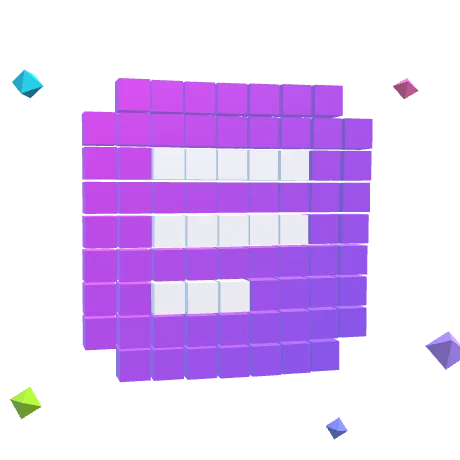
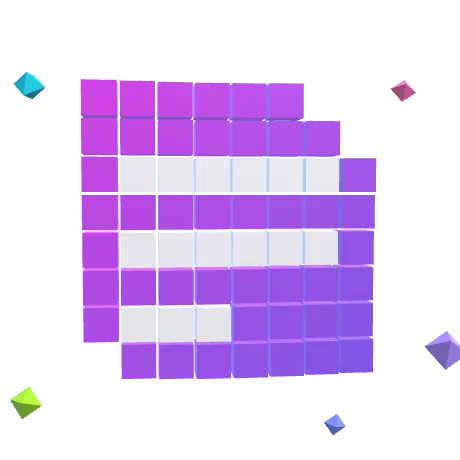
Use the hop-assets v8 bento and 3D engine

diff --git a/web/static/hop-home/hop-bento.css b/web/static/hop-home/hop-bento.css
@@ -1,35 +1,60 @@
 /*
- * HOP bento: one grid of boxes for every HOP page (hop-assets v7, immutable once deployed).
+ * HOP bento: one grid of boxes for every HOP page (hop-assets v8, immutable once deployed).
  *
- *   <link rel="stylesheet" href="https://hel.ink/hop-assets/v7/hop-bento.css">
- *   <script src="https://hel.ink/hop-assets/v7/hop-motion.js" defer></script>   (reveal, spotlight, scenes)
+ *   <link rel="stylesheet" href="https://hel.ink/hop-assets/v8/hop-bento.css">
+ *   <script src="https://hel.ink/hop-assets/v8/hop-motion.js" defer></script>   (reveal, spotlight, scenes)
  *
- *   <div class="hop-bento">
+ *   <div class="hop-bento">                 content boxes (text, lists)
+ *   <div class="hop-bento" data-tiles>      small tiles (the five family tiles with 3D art, stats)
  *     <article data-spot>...</article>
  *     <article data-spot data-scene>... a small CSS/SVG scene ...</article>
  *   </div>
  *
- * The grid has 6 columns. A box spans 2 columns unless the pattern for the box count says otherwise, so every
- * count from 2 to 9 fills whole rows: one tidy rectangle, never a box left alone on the last row.
- * Spans by box count (rows separated by "/"), desktop (above 1024 px):
- *   2 boxes: 4+2
- *   3 boxes: 3+3 / 6
- *   4 boxes: 4+2 / 2+4
- *   5 boxes: 3+3 / 2+2+2
- *   6 boxes: 4+2 / 2+2+2 / 6
- *   7 boxes: 3+3 / 2+2+2 / 3+3
- *   8 boxes: 3+3 / 2+2+2 / 2+2+2
- *   9 boxes: 3+3 / 2+2+2 / 2+2+2 / 6
- * One box on its own spans the full row. More than 9 boxes: split them into several grids (a grid of 10 or
- * more falls back to three per row and may leave the last row short).
- * Override: data-span="3|4|6" on a box. When any box has data-span the count patterns switch off; the other
- * boxes span 2 and grid-auto-flow:dense fills the gaps, so pick spans whose rows add up to 6.
- * Tablet (up to 1024 px): 2 columns, and when the count is odd the last box spans both.
- * Phone (up to 640 px): 1 column.
- * Rows share one height (grid stretch). Boxes keep their own display, so a box can be a flex row or a grid.
- * data-bare on the grid: layout only (no panel, border, padding or clipping), for boxes that bring their own card style.
+ * v8: more columns, smaller boxes. The grid has 60 columns on desktop (12 would not divide into 5), so five
+ * tiles share one row. No box is alone on a row and none is wider than half the row (unless it is the only
+ * box, or data-span asks for it). Spans per box count, rows separated by "/"; desktop numbers are sixtieths
+ * of the row, tablet numbers sixths.
  *
- * Tokens (all overridable on .hop-bento or any ancestor; light and dark follow .dark / [data-theme=dark]):
+ * Desktop, 1100 px and up, content boxes:
+ *   2 boxes: 30+30
+ *   3 boxes: 20+20+20
+ *   4 boxes: 30+30 / 30+30
+ *   5 boxes: 20+20+20 / 30+30
+ *   6 boxes: 20+20+20 / 20+20+20
+ *   7 boxes: 15+15+15+15 / 20+20+20
+ *   8 boxes: 18+14+14+14 / 14+14+14+18
+ *   9 boxes: 20+20+20 / 20+20+20 / 20+20+20
+ * Desktop, 1100 px and up, data-tiles (small boxes, few rows):
+ *   2 boxes: 30+30
+ *   3 boxes: 20+20+20
+ *   4 boxes: 15+15+15+15
+ *   5 boxes: 12+12+12+12+12
+ *   6 boxes: 10+10+10+10+10+10
+ *   7 boxes: 15+15+15+15 / 20+20+20
+ *   8 boxes: 15+15+15+15 / 15+15+15+15
+ *   9 boxes: 12+12+12+12+12 / 15+15+15+15
+ * Tablet, 900 to 1099 px (data-tiles from 641 px): 6 columns, both kinds:
+ *   2 boxes: 3+3
+ *   3 boxes: 2+2+2
+ *   4 boxes: 3+3 / 3+3
+ *   5 boxes: 2+2+2 / 3+3
+ *   6 boxes: 2+2+2 / 2+2+2
+ *   7 boxes: 2+2+2 / 3+3 / 3+3
+ *   8 boxes: 3+3 / 2+2+2 / 2+2+2
+ *   9 boxes: 2+2+2 / 2+2+2 / 2+2+2
+ * 641 to 899 px content boxes: 2 columns, and when the count is odd the last box spans both.
+ * Phone, up to 640 px: content boxes in 1 column; data-tiles in 2 columns, an odd last tile spans both.
+ * More than 9 boxes: split them into several grids (a longer grid falls back to 3 per row).
+ * One box alone spans the full row. data-span="2|3|4|6" (sixths) on a box is a deliberate size: the count
+ * patterns switch off for that grid, the other boxes span a third and grid-auto-flow:dense fills the gaps.
+ *
+ * Media inside a box is capped so a box never turns into a poster: [data-media] (3D tile art, an image) is
+ * 160 to 200 px tall on desktop and 120 to 140 px on a phone; [data-scene] never exceeds 140 px.
+ *
+ * Rows share one height (grid stretch). Boxes keep their own display, so a box can be a flex row or a grid.
+ * data-bare on the grid: layout only (no panel, border, padding or clipping), for boxes with their own card style.
+ *
+ * Tokens (overridable on .hop-bento or any ancestor; light and dark follow .dark / [data-theme=dark]):
  *   --hb-accent  spotlight and scene colour, default HOP indigo (apps pass their own, e.g. --hop-accent)
  *   --hb-panel, --hb-line, --hb-text, --hb-muted, --hb-radius, --hb-gap, --hb-shadow
  *
@@ -68,36 +93,96 @@
 /* Layout only: boxes that bring their own card style. */
 .hop-bento[data-bare] > * { padding: 0; overflow: visible; background: none; border: 0; border-radius: 0; box-shadow: none; }
 
-/* A box on its own, and every box when the grid has more than nine. */
+/* A box on its own. */
 .hop-bento:has(> :first-child:last-child) > * { grid-column: 1 / -1; }
 
-/* Spans by count, desktop only; a box has span 2 unless listed. */
-@media (min-width: 1025px) {
-    .hop-bento > [data-span="3"] { grid-column: span 3; }
-    .hop-bento > [data-span="4"] { grid-column: span 4; }
-    .hop-bento > [data-span="6"] { grid-column: span 6; }
-    .hop-bento:not(:has(> [data-span])):has(> :nth-child(2):last-child) > :nth-child(1) { grid-column: span 4; }
-    .hop-bento:not(:has(> [data-span])):has(> :nth-child(3):last-child) > :nth-child(-n+2) { grid-column: span 3; }
-    .hop-bento:not(:has(> [data-span])):has(> :nth-child(3):last-child) > :nth-child(3) { grid-column: span 6; }
-    .hop-bento:not(:has(> [data-span])):has(> :nth-child(4):last-child) > :is(:nth-child(1), :nth-child(4)) { grid-column: span 4; }
-    .hop-bento:not(:has(> [data-span])):has(> :nth-child(5):last-child) > :nth-child(-n+2) { grid-column: span 3; }
-    .hop-bento:not(:has(> [data-span])):has(> :nth-child(6):last-child) > :nth-child(1) { grid-column: span 4; }
-    .hop-bento:not(:has(> [data-span])):has(> :nth-child(6):last-child) > :nth-child(6) { grid-column: span 6; }
-    .hop-bento:not(:has(> [data-span])):has(> :nth-child(7):last-child) > :is(:nth-child(-n+2), :nth-child(n+6)) { grid-column: span 3; }
-    .hop-bento:not(:has(> [data-span])):has(> :nth-child(8):last-child) > :nth-child(-n+2) { grid-column: span 3; }
-    .hop-bento:not(:has(> [data-span])):has(> :nth-child(9):last-child) > :nth-child(-n+2) { grid-column: span 3; }
-    .hop-bento:not(:has(> [data-span])):has(> :nth-child(9):last-child) > :nth-child(9) { grid-column: span 6; }
+/* A deliberate size (sixths), whatever the width: the count patterns step aside for this grid. */
+.hop-bento > [data-span="2"] { grid-column: span 2; }
+.hop-bento > [data-span="3"] { grid-column: span 3; }
+.hop-bento > [data-span="4"] { grid-column: span 4; }
+.hop-bento > [data-span="6"] { grid-column: 1 / -1; }
+
+/* Tablet: 6 columns, from 900 px for content boxes and from 641 px for tiles. */
+@media (min-width: 900px) and (max-width: 1099px) {
+    .hop-bento:not([data-tiles]):not(:has(> [data-span])):has(> :nth-child(2):last-child) > :is(:nth-child(1), :nth-child(2)) { grid-column: span 3; }
+    .hop-bento:not([data-tiles]):not(:has(> [data-span])):has(> :nth-child(3):last-child) > :is(:nth-child(1), :nth-child(2), :nth-child(3)) { grid-column: span 2; }
+    .hop-bento:not([data-tiles]):not(:has(> [data-span])):has(> :nth-child(4):last-child) > :is(:nth-child(1), :nth-child(2), :nth-child(3), :nth-child(4)) { grid-column: span 3; }
+    .hop-bento:not([data-tiles]):not(:has(> [data-span])):has(> :nth-child(5):last-child) > :is(:nth-child(1), :nth-child(2), :nth-child(3)) { grid-column: span 2; }
+    .hop-bento:not([data-tiles]):not(:has(> [data-span])):has(> :nth-child(5):last-child) > :is(:nth-child(4), :nth-child(5)) { grid-column: span 3; }
+    .hop-bento:not([data-tiles]):not(:has(> [data-span])):has(> :nth-child(6):last-child) > :is(:nth-child(1), :nth-child(2), :nth-child(3), :nth-child(4), :nth-child(5), :nth-child(6)) { grid-column: span 2; }
+    .hop-bento:not([data-tiles]):not(:has(> [data-span])):has(> :nth-child(7):last-child) > :is(:nth-child(1), :nth-child(2), :nth-child(3)) { grid-column: span 2; }
+    .hop-bento:not([data-tiles]):not(:has(> [data-span])):has(> :nth-child(7):last-child) > :is(:nth-child(4), :nth-child(5), :nth-child(6), :nth-child(7)) { grid-column: span 3; }
+    .hop-bento:not([data-tiles]):not(:has(> [data-span])):has(> :nth-child(8):last-child) > :is(:nth-child(3), :nth-child(4), :nth-child(5), :nth-child(6), :nth-child(7), :nth-child(8)) { grid-column: span 2; }
+    .hop-bento:not([data-tiles]):not(:has(> [data-span])):has(> :nth-child(8):last-child) > :is(:nth-child(1), :nth-child(2)) { grid-column: span 3; }
+    .hop-bento:not([data-tiles]):not(:has(> [data-span])):has(> :nth-child(9):last-child) > :is(:nth-child(1), :nth-child(2), :nth-child(3), :nth-child(4), :nth-child(5), :nth-child(6), :nth-child(7), :nth-child(8), :nth-child(9)) { grid-column: span 2; }
+}
+@media (min-width: 641px) and (max-width: 1099px) {
+    .hop-bento[data-tiles] { grid-template-columns: repeat(6, minmax(0, 1fr)); }
+    .hop-bento[data-tiles] > * { grid-column: span 2; }
+    .hop-bento[data-tiles]:not(:has(> [data-span])):has(> :nth-child(2):last-child) > :is(:nth-child(1), :nth-child(2)) { grid-column: span 3; }
+    .hop-bento[data-tiles]:not(:has(> [data-span])):has(> :nth-child(3):last-child) > :is(:nth-child(1), :nth-child(2), :nth-child(3)) { grid-column: span 2; }
+    .hop-bento[data-tiles]:not(:has(> [data-span])):has(> :nth-child(4):last-child) > :is(:nth-child(1), :nth-child(2), :nth-child(3), :nth-child(4)) { grid-column: span 3; }
+    .hop-bento[data-tiles]:not(:has(> [data-span])):has(> :nth-child(5):last-child) > :is(:nth-child(1), :nth-child(2), :nth-child(3)) { grid-column: span 2; }
+    .hop-bento[data-tiles]:not(:has(> [data-span])):has(> :nth-child(5):last-child) > :is(:nth-child(4), :nth-child(5)) { grid-column: span 3; }
+    .hop-bento[data-tiles]:not(:has(> [data-span])):has(> :nth-child(6):last-child) > :is(:nth-child(1), :nth-child(2), :nth-child(3), :nth-child(4), :nth-child(5), :nth-child(6)) { grid-column: span 2; }
+    .hop-bento[data-tiles]:not(:has(> [data-span])):has(> :nth-child(7):last-child) > :is(:nth-child(1), :nth-child(2), :nth-child(3)) { grid-column: span 2; }
+    .hop-bento[data-tiles]:not(:has(> [data-span])):has(> :nth-child(7):last-child) > :is(:nth-child(4), :nth-child(5), :nth-child(6), :nth-child(7)) { grid-column: span 3; }
+    .hop-bento[data-tiles]:not(:has(> [data-span])):has(> :nth-child(8):last-child) > :is(:nth-child(3), :nth-child(4), :nth-child(5), :nth-child(6), :nth-child(7), :nth-child(8)) { grid-column: span 2; }
+    .hop-bento[data-tiles]:not(:has(> [data-span])):has(> :nth-child(8):last-child) > :is(:nth-child(1), :nth-child(2)) { grid-column: span 3; }
+    .hop-bento[data-tiles]:not(:has(> [data-span])):has(> :nth-child(9):last-child) > :is(:nth-child(1), :nth-child(2), :nth-child(3), :nth-child(4), :nth-child(5), :nth-child(6), :nth-child(7), :nth-child(8), :nth-child(9)) { grid-column: span 2; }
 }
 
-@media (max-width: 1024px) {
-    .hop-bento { grid-template-columns: repeat(2, minmax(0, 1fr)); }
-    .hop-bento > *, .hop-bento > [data-span] { grid-column: span 1; }
-    .hop-bento > :last-child:nth-child(odd) { grid-column: 1 / -1; }
+/* Desktop, 1100 px and up: 60 columns. */
+@media (min-width: 1100px) {
+    .hop-bento { grid-template-columns: repeat(60, minmax(0, 1fr)); }
+    .hop-bento > * { grid-column: span 20; }
+    .hop-bento > [data-span="2"] { grid-column: span 20; }
+    .hop-bento > [data-span="3"] { grid-column: span 30; }
+    .hop-bento > [data-span="4"] { grid-column: span 40; }
+    .hop-bento > [data-span="6"] { grid-column: 1 / -1; }
+    .hop-bento:not([data-tiles]):not(:has(> [data-span])):has(> :nth-child(2):last-child) > :is(:nth-child(1), :nth-child(2)) { grid-column: span 30; }
+    .hop-bento:not([data-tiles]):not(:has(> [data-span])):has(> :nth-child(3):last-child) > :is(:nth-child(1), :nth-child(2), :nth-child(3)) { grid-column: span 20; }
+    .hop-bento:not([data-tiles]):not(:has(> [data-span])):has(> :nth-child(4):last-child) > :is(:nth-child(1), :nth-child(2), :nth-child(3), :nth-child(4)) { grid-column: span 30; }
+    .hop-bento:not([data-tiles]):not(:has(> [data-span])):has(> :nth-child(5):last-child) > :is(:nth-child(1), :nth-child(2), :nth-child(3)) { grid-column: span 20; }
+    .hop-bento:not([data-tiles]):not(:has(> [data-span])):has(> :nth-child(5):last-child) > :is(:nth-child(4), :nth-child(5)) { grid-column: span 30; }
+    .hop-bento:not([data-tiles]):not(:has(> [data-span])):has(> :nth-child(6):last-child) > :is(:nth-child(1), :nth-child(2), :nth-child(3), :nth-child(4), :nth-child(5), :nth-child(6)) { grid-column: span 20; }
+    .hop-bento:not([data-tiles]):not(:has(> [data-span])):has(> :nth-child(7):last-child) > :is(:nth-child(1), :nth-child(2), :nth-child(3), :nth-child(4)) { grid-column: span 15; }
+    .hop-bento:not([data-tiles]):not(:has(> [data-span])):has(> :nth-child(7):last-child) > :is(:nth-child(5), :nth-child(6), :nth-child(7)) { grid-column: span 20; }
+    .hop-bento:not([data-tiles]):not(:has(> [data-span])):has(> :nth-child(8):last-child) > :is(:nth-child(2), :nth-child(3), :nth-child(4), :nth-child(5), :nth-child(6), :nth-child(7)) { grid-column: span 14; }
+    .hop-bento:not([data-tiles]):not(:has(> [data-span])):has(> :nth-child(8):last-child) > :is(:nth-child(1), :nth-child(8)) { grid-column: span 18; }
+    .hop-bento:not([data-tiles]):not(:has(> [data-span])):has(> :nth-child(9):last-child) > :is(:nth-child(1), :nth-child(2), :nth-child(3), :nth-child(4), :nth-child(5), :nth-child(6), :nth-child(7), :nth-child(8), :nth-child(9)) { grid-column: span 20; }
+    .hop-bento[data-tiles]:not(:has(> [data-span])):has(> :nth-child(2):last-child) > :is(:nth-child(1), :nth-child(2)) { grid-column: span 30; }
+    .hop-bento[data-tiles]:not(:has(> [data-span])):has(> :nth-child(3):last-child) > :is(:nth-child(1), :nth-child(2), :nth-child(3)) { grid-column: span 20; }
+    .hop-bento[data-tiles]:not(:has(> [data-span])):has(> :nth-child(4):last-child) > :is(:nth-child(1), :nth-child(2), :nth-child(3), :nth-child(4)) { grid-column: span 15; }
+    .hop-bento[data-tiles]:not(:has(> [data-span])):has(> :nth-child(5):last-child) > :is(:nth-child(1), :nth-child(2), :nth-child(3), :nth-child(4), :nth-child(5)) { grid-column: span 12; }
+    .hop-bento[data-tiles]:not(:has(> [data-span])):has(> :nth-child(6):last-child) > :is(:nth-child(1), :nth-child(2), :nth-child(3), :nth-child(4), :nth-child(5), :nth-child(6)) { grid-column: span 10; }
+    .hop-bento[data-tiles]:not(:has(> [data-span])):has(> :nth-child(7):last-child) > :is(:nth-child(1), :nth-child(2), :nth-child(3), :nth-child(4)) { grid-column: span 15; }
+    .hop-bento[data-tiles]:not(:has(> [data-span])):has(> :nth-child(7):last-child) > :is(:nth-child(5), :nth-child(6), :nth-child(7)) { grid-column: span 20; }
+    .hop-bento[data-tiles]:not(:has(> [data-span])):has(> :nth-child(8):last-child) > :is(:nth-child(1), :nth-child(2), :nth-child(3), :nth-child(4), :nth-child(5), :nth-child(6), :nth-child(7), :nth-child(8)) { grid-column: span 15; }
+    .hop-bento[data-tiles]:not(:has(> [data-span])):has(> :nth-child(9):last-child) > :is(:nth-child(1), :nth-child(2), :nth-child(3), :nth-child(4), :nth-child(5)) { grid-column: span 12; }
+    .hop-bento[data-tiles]:not(:has(> [data-span])):has(> :nth-child(9):last-child) > :is(:nth-child(6), :nth-child(7), :nth-child(8), :nth-child(9)) { grid-column: span 15; }
 }
+
+/* 641 to 899 px: 2 columns. */
+@media (max-width: 899px) {
+    .hop-bento:not([data-tiles]) { grid-template-columns: repeat(2, minmax(0, 1fr)); }
+    .hop-bento:not([data-tiles]) > *, .hop-bento:not([data-tiles]) > [data-span] { grid-column: span 1; }
+    .hop-bento:not([data-tiles]) > :last-child:nth-child(odd) { grid-column: 1 / -1; }
+}
+/* Phone: content in one column, tiles in two. */
 @media (max-width: 640px) {
-    .hop-bento { grid-template-columns: minmax(0, 1fr); }
-    .hop-bento > *, .hop-bento > [data-span], .hop-bento > :last-child:nth-child(odd) { grid-column: 1 / -1; }
+    .hop-bento:not([data-tiles]) { grid-template-columns: minmax(0, 1fr); }
+    .hop-bento:not([data-tiles]) > *, .hop-bento:not([data-tiles]) > [data-span], .hop-bento:not([data-tiles]) > :last-child:nth-child(odd) { grid-column: 1 / -1; }
+    .hop-bento[data-tiles] { grid-template-columns: repeat(2, minmax(0, 1fr)); gap: 10px; }
+    .hop-bento[data-tiles] > *, .hop-bento[data-tiles] > [data-span] { grid-column: span 1; }
+    .hop-bento[data-tiles] > :last-child:nth-child(odd) { grid-column: 1 / -1; }
+    .hop-bento > * { padding: 18px; }
 }
+
+/* Media caps. */
+.hop-bento [data-media] { display: block; width: 100%; height: clamp(160px, 14vw, 200px); object-fit: contain; }
+.hop-bento [data-scene] { max-height: 140px; }
+@media (max-width: 640px) { .hop-bento [data-media] { height: clamp(120px, 34vw, 140px); } }
 
 /* Pointer spotlight (hop-motion.js writes --mx / --my). Fine pointers only. */
 [data-spot] { position: relative; isolation: isolate; }

diff --git a/web/templates/home.html b/web/templates/home.html
@@ -1,4 +1,5 @@
 {{define "head"}}
+<link rel="stylesheet" href="/static/hop-home/hop-bento.css?v={{.Asset}}">
 <link rel="stylesheet" href="/static/hop-home/hop-home.css?v={{.Asset}}">
 <link rel="stylesheet" href="/static/hop-home/hop-scenes.css?v={{.Asset}}">
 <link rel="stylesheet" href="/static/css/home.css?v={{.Asset}}">
@@ -189,7 +190,7 @@
   </section>
 
   <!-- 10 family -->
-  <section class="px-sec" id="family" aria-labelledby="family-title"><h2 id="family-title" class="px-h2"><em>{{.L.T "home.family_title"}}</em></h2><p class="h-sub">{{.L.T "home.family_desc"}}</p><ul class="hop-fam" role="list">{{range hopFamily}}<li><div class="hop-fam-tile"><figure class="hop-fam-art"><picture><source srcset="/static/hop-home/home/{{.Slug}}-dark.webp" media="(prefers-color-scheme: dark)"><img src="/static/hop-home/home/{{.Slug}}-light.webp" alt="" width="150" height="150" loading="lazy"></picture><canvas data-hop-hero="{{.Slug}}" aria-hidden="true"></canvas></figure><a class="hop-fam-name" href="{{.URL}}"><b>{{if eq .Slug "hub"}}HOP ID{{else}}{{.Name}}{{end}}</b><span>{{hostOf .URL}}</span></a></div></li>{{end}}</ul></section>
+  <section class="px-sec" id="family" aria-labelledby="family-title"><h2 id="family-title" class="px-h2"><em>{{.L.T "home.family_title"}}</em></h2><p class="h-sub">{{.L.T "home.family_desc"}}</p><div class="hop-bento hop-fam" data-tiles>{{range hopFamily}}<article class="hop-fam-tile" data-spot><figure class="hop-fam-art" data-media><picture><source srcset="/static/hop-home/home/{{.Slug}}-dark.webp" media="(prefers-color-scheme: dark)"><img src="/static/hop-home/home/{{.Slug}}-light.webp" alt="" width="150" height="150" loading="lazy"></picture><canvas data-hop-hero="{{.Slug}}" aria-hidden="true"></canvas></figure><a class="hop-fam-name" href="{{.URL}}"><b>{{if eq .Slug "hub"}}HOP ID{{else}}{{.Name}}{{end}}</b><span>{{hostOf .URL}}</span></a></article>{{end}}</div></section>
 
   <!-- 11 the last word -->
   <section class="px-sec h-final" aria-labelledby="final-title"><h2 id="final-title" class="px-h2">{{.L.H "home.hero_title"}}</h2><p class="h-sub">{{.L.T "home.hero_lead"}}</p><div class="h-cta"><a class="h-pill dark" href="#quick">{{.L.T "nav.upload"}} ↑</a><a class="h-pill" href="/features">{{.L.T "features.title"}}</a></div></section>

diff --git a/web/static/css/home.css b/web/static/css/home.css
@@ -176,10 +176,9 @@
 .hop-home .h-shell pre .ok { color:#a3e635; }
 
 /* family section: the other apps as 3D tiles (hop-assets v6 engine, WebP fallback) */
-.hop-fam { list-style: none; margin: 30px 0 0; padding: 0; display: grid; gap: 14px; grid-template-columns: repeat(5, minmax(0, 1fr)); align-items: stretch; }
-.hop-fam > li { display: flex; min-width: 0; }
-.hop-fam-tile { flex: 1; display: grid; grid-template-rows: auto 1fr; justify-items: center; gap: 10px; min-width: 0; padding: 16px 12px 18px; border: 1px solid var(--home-line); border-radius: 18px; background: var(--home-panel); text-align: center; }
-.hop-fam-art { position: relative; margin: 0; width: 100%; max-width: 160px; aspect-ratio: 1; }
+.hop-fam { --hb-panel: var(--home-panel); --hb-line: var(--home-line); --hb-text: var(--home-text); --hb-muted: var(--home-muted); --hb-gap: 14px; margin-top: 30px; }
+.hop-fam-tile { display: grid; grid-template-rows: auto 1fr; justify-items: center; gap: 10px; min-width: 0; text-align: center; }
+.hop-fam-art { position: relative; margin: 0; }
 .hop-fam-art img, .hop-fam-art canvas { position: absolute; inset: 0; width: 100%; height: 100%; object-fit: contain; display: block; }
 .hop-fam-art canvas { opacity: 0; cursor: grab; touch-action: pan-y; }
 .hop-fam-art canvas.on { opacity: 1; }
@@ -188,7 +187,5 @@
 .hop-fam-name b { font-weight: 650; overflow: hidden; text-overflow: ellipsis; white-space: nowrap; }
 .hop-fam-name span { font: 12px var(--h-mono, 'JetBrains Mono', monospace); color: var(--home-muted); overflow: hidden; text-overflow: ellipsis; white-space: nowrap; }
 .hop-fam-name:hover b { text-decoration: underline; }
-@media (max-width: 860px) { .hop-fam { grid-template-columns: repeat(6, minmax(0, 1fr)); } .hop-fam > li { grid-column: span 2; } .hop-fam > li:nth-child(n+4) { grid-column: span 3; } }
-@media (max-width: 560px) { .hop-fam-art { max-width: 130px; } .hop-fam { grid-template-columns: repeat(2, minmax(0, 1fr)); } .hop-fam > li, .hop-fam > li:nth-child(n+4) { grid-column: auto; } .hop-fam > li:last-child:nth-child(odd) { grid-column: 1 / -1; } }
 .foot-col nav a { display: flex; align-items: center; gap: 8px; }
 .foot-col nav a img { width: 16px; height: 16px; flex: none; border-radius: 4px; }

diff --git a/web/static/hop-home/hop-hero3d.js b/web/static/hop-home/hop-hero3d.js
@@ -42,8 +42,8 @@
   var MAPS = {
     notehop: ['..#..#..', '..#..#..', '.#####..', '.######.', '.#...##.', '.######.', '.#..###.', '.######.'],
     hub: ['.#..#...', '.##.#...', '..####..', '..#####.', '######..', '.#####..', '##..###.', '#....###'],
-    // the BioHop mark: a rounded square with three lines
-    biohop: ['.#######.', '#########', '##wwwww##', '#########', '##wwwww##', '#########', '##www####', '#########', '.#######.'],
+    // the BioHop mark (v8): a page with three lines, stepped corners, 8x8 like the other pixel marks
+    biohop: ['######..', '#######.', '#wwwwww#', '########', '#wwwwww#', '########', '#www####', '.#######'],
     // the PixelHop mark: the pixel rabbit
     pixelhop: ['.#....#.', '.#....#.', '.##..##.', '.######.', '##.##.##', '########', '########', '.######.'],
     // the FileHop mark (v4): a document with a folded corner and a white arrow down

diff --git a/CHANGELOG.md b/CHANGELOG.md
@@ -5,6 +5,7 @@ All notable changes to PixelHop will be documented in this file.
 ## [Unreleased]
 
 ### Changed
+- The home page grids use the hop-assets v8 bento (five family tiles in one row from 1100 px, no lone box, art capped at 160-200 px); the 3D engine, bento stylesheet and BioHop assets are byte-identical v8 copies.
 - The family tiles stay in one row of five down to 860 px (art capped at 160 px, 130 px on phones), a 3 + 2 bento below that and two columns on phones; the footer's HOP family list shows the mark left of the name on one line under the shared "HOP family" heading.
 
 ## [3.9.0] - 2026-11-10
